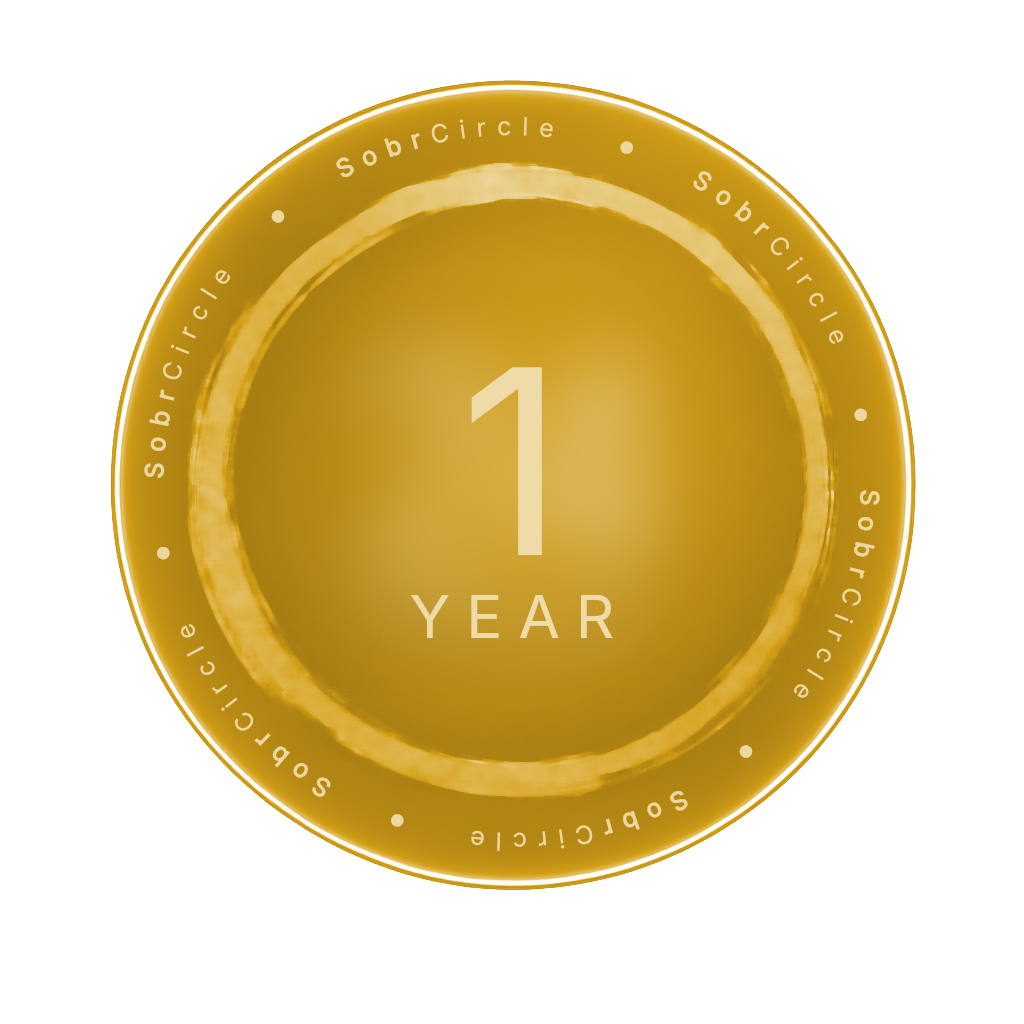
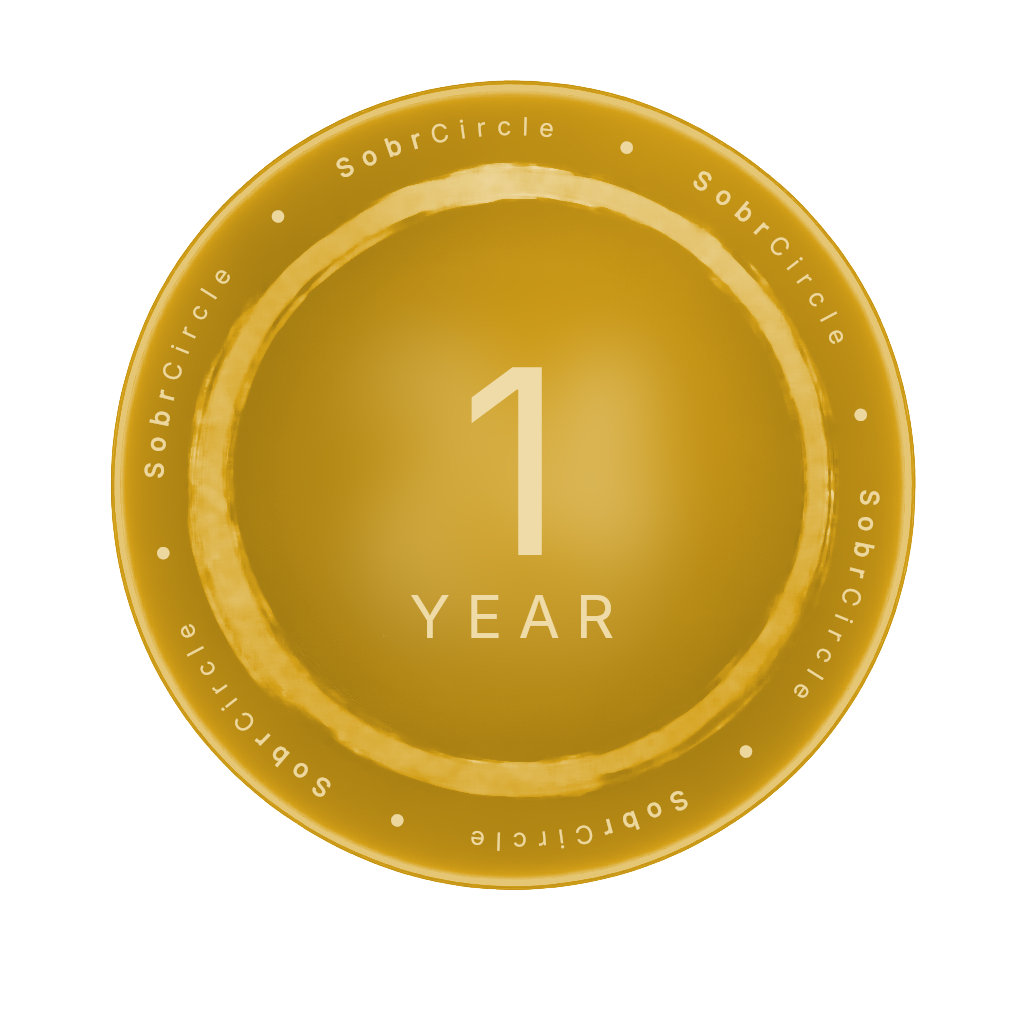
Tint the outer halo in badge color while preserving its unevenness
Adds a radius-based cap on the white-lift inside applyTint: pixels at
r > 380 (the outer halo zone) get their lift toward white capped at 0.4,
so the outermost ring reads as a brightened tint of the badge color
instead of near-white. The natural per-pixel brightness variation in the
master halo carries through unchanged — same uneven texture, just in
the badge color family. Badge size is unchanged because only existing
pixel colors are modified.

https://claude.ai/code/session_01TqmVcPLJNZuf7Q6XCPWgNk

diff --git a/scripts/generate-badges.ts b/scripts/generate-badges.ts
@@ -346,6 +346,7 @@ function applyTint(ctx: SKRSContext2D, hex: string) {
   const [tr, tg, tb] = hexToRgb(hex)
   const img = ctx.getImageData(0, 0, SIZE, SIZE)
   const px = img.data
+  const w = SIZE
 
   for (let i = 0; i < px.length; i += 4) {
     const a = px[i + 3]
@@ -357,8 +358,21 @@ function applyTint(ctx: SKRSContext2D, hex: string) {
     let g: number
     let b: number
     if (lum >= DISC_REF_LUM) {
-      // Brighter than the disc interior: blend tint toward white.
-      const t = (lum - DISC_REF_LUM) / (1 - DISC_REF_LUM)
+      // Brighter than the disc interior: blend tint toward white. Inside
+      // the chrome ring we let highlights lift fully so brushwork still
+      // pops. In the outer halo (r > 380) we cap the lift so the
+      // outermost ring stays in the badge's color family — the natural
+      // brightness variation in the halo carries through, just in tint.
+      const idx = i >> 2
+      const px_x = idx % w
+      const px_y = (idx - px_x) / w
+      const dx = px_x - CX
+      const dy = px_y - CY
+      const pr2 = dx * dx + dy * dy
+
+      let t = (lum - DISC_REF_LUM) / (1 - DISC_REF_LUM)
+      if (pr2 > 380 * 380) t = Math.min(t, 0.4)
+
       r = tr + (255 - tr) * t
       g = tg + (255 - tg) * t
       b = tb + (255 - tb) * t
